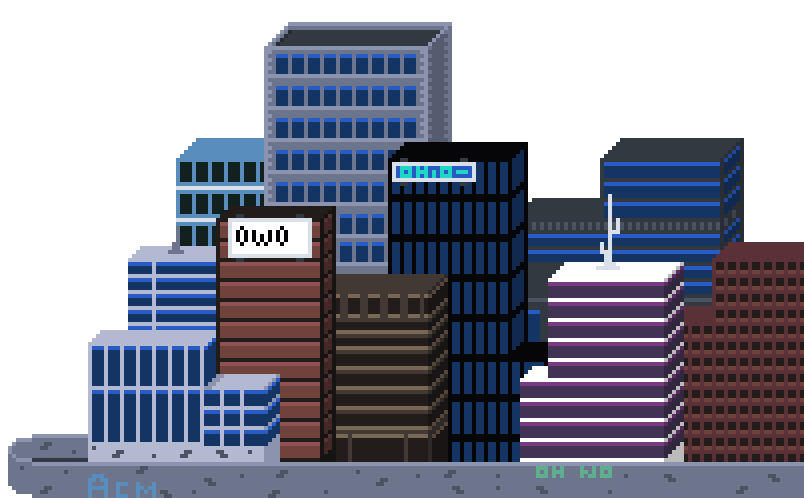
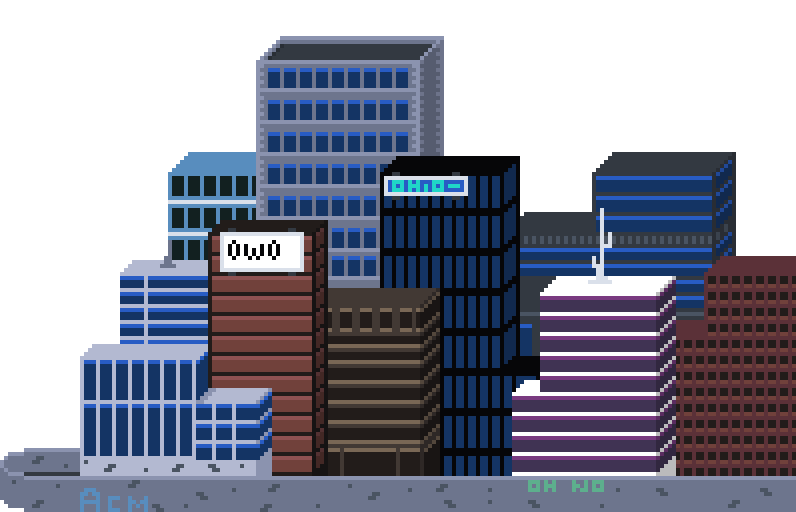
Clean up: Sprites and Code

diff --git a/game/visualizer/city_sprites.py b/game/visualizer/city_sprites.py
@@ -7,7 +7,7 @@ class CityLayer(cocos.layer.Layer):
         self.info = turn_info
         super().__init__()
         images = [
-            "game/visualizer/assets/city_assets/city_default.png",
+            "game/visualizer/assets/city_assets/city_level0.png",
             "game/visualizer/assets/city_assets/city_level1.png",
             "game/visualizer/assets/city_assets/city_level2.png",
             "game/visualizer/assets/city_assets/city_level3.png"
@@ -27,5 +27,8 @@ class CityLayer(cocos.layer.Layer):
         else:
             self.city = cocos.sprite.Sprite(images[0])
 
-        self.city.position = self.display[0]-804/2, self.display[1]-498/2
+        self.city_x = self.display[0]-804/2
+        self.city_y = self.display[1]-498/2
+
+        self.city.position = (self.city_x, self.city_y)
         self.add(self.city)

diff --git a/game/visualizer/__init__.py b/game/visualizer/__init__.py
@@ -13,22 +13,6 @@ from game.visualizer.end_layer import *
 
 size = DISPLAY_SIZE
 log_parser = None
-global_surf = None
-fpsClock = None
-turn = 0  # current turn of the visualizer
-
-debug = False
-
-# Sprite Groups
-location_group = pygame.sprite.Group()
-
-_VIS_INTERMEDIATE_FRAMES = VIS_INTERMEDIATE_FRAMES
-_FPS = FPS
-
-
-def log(msg):
-    if debug:
-        print(str(msg))
 turn = 1
 
 
